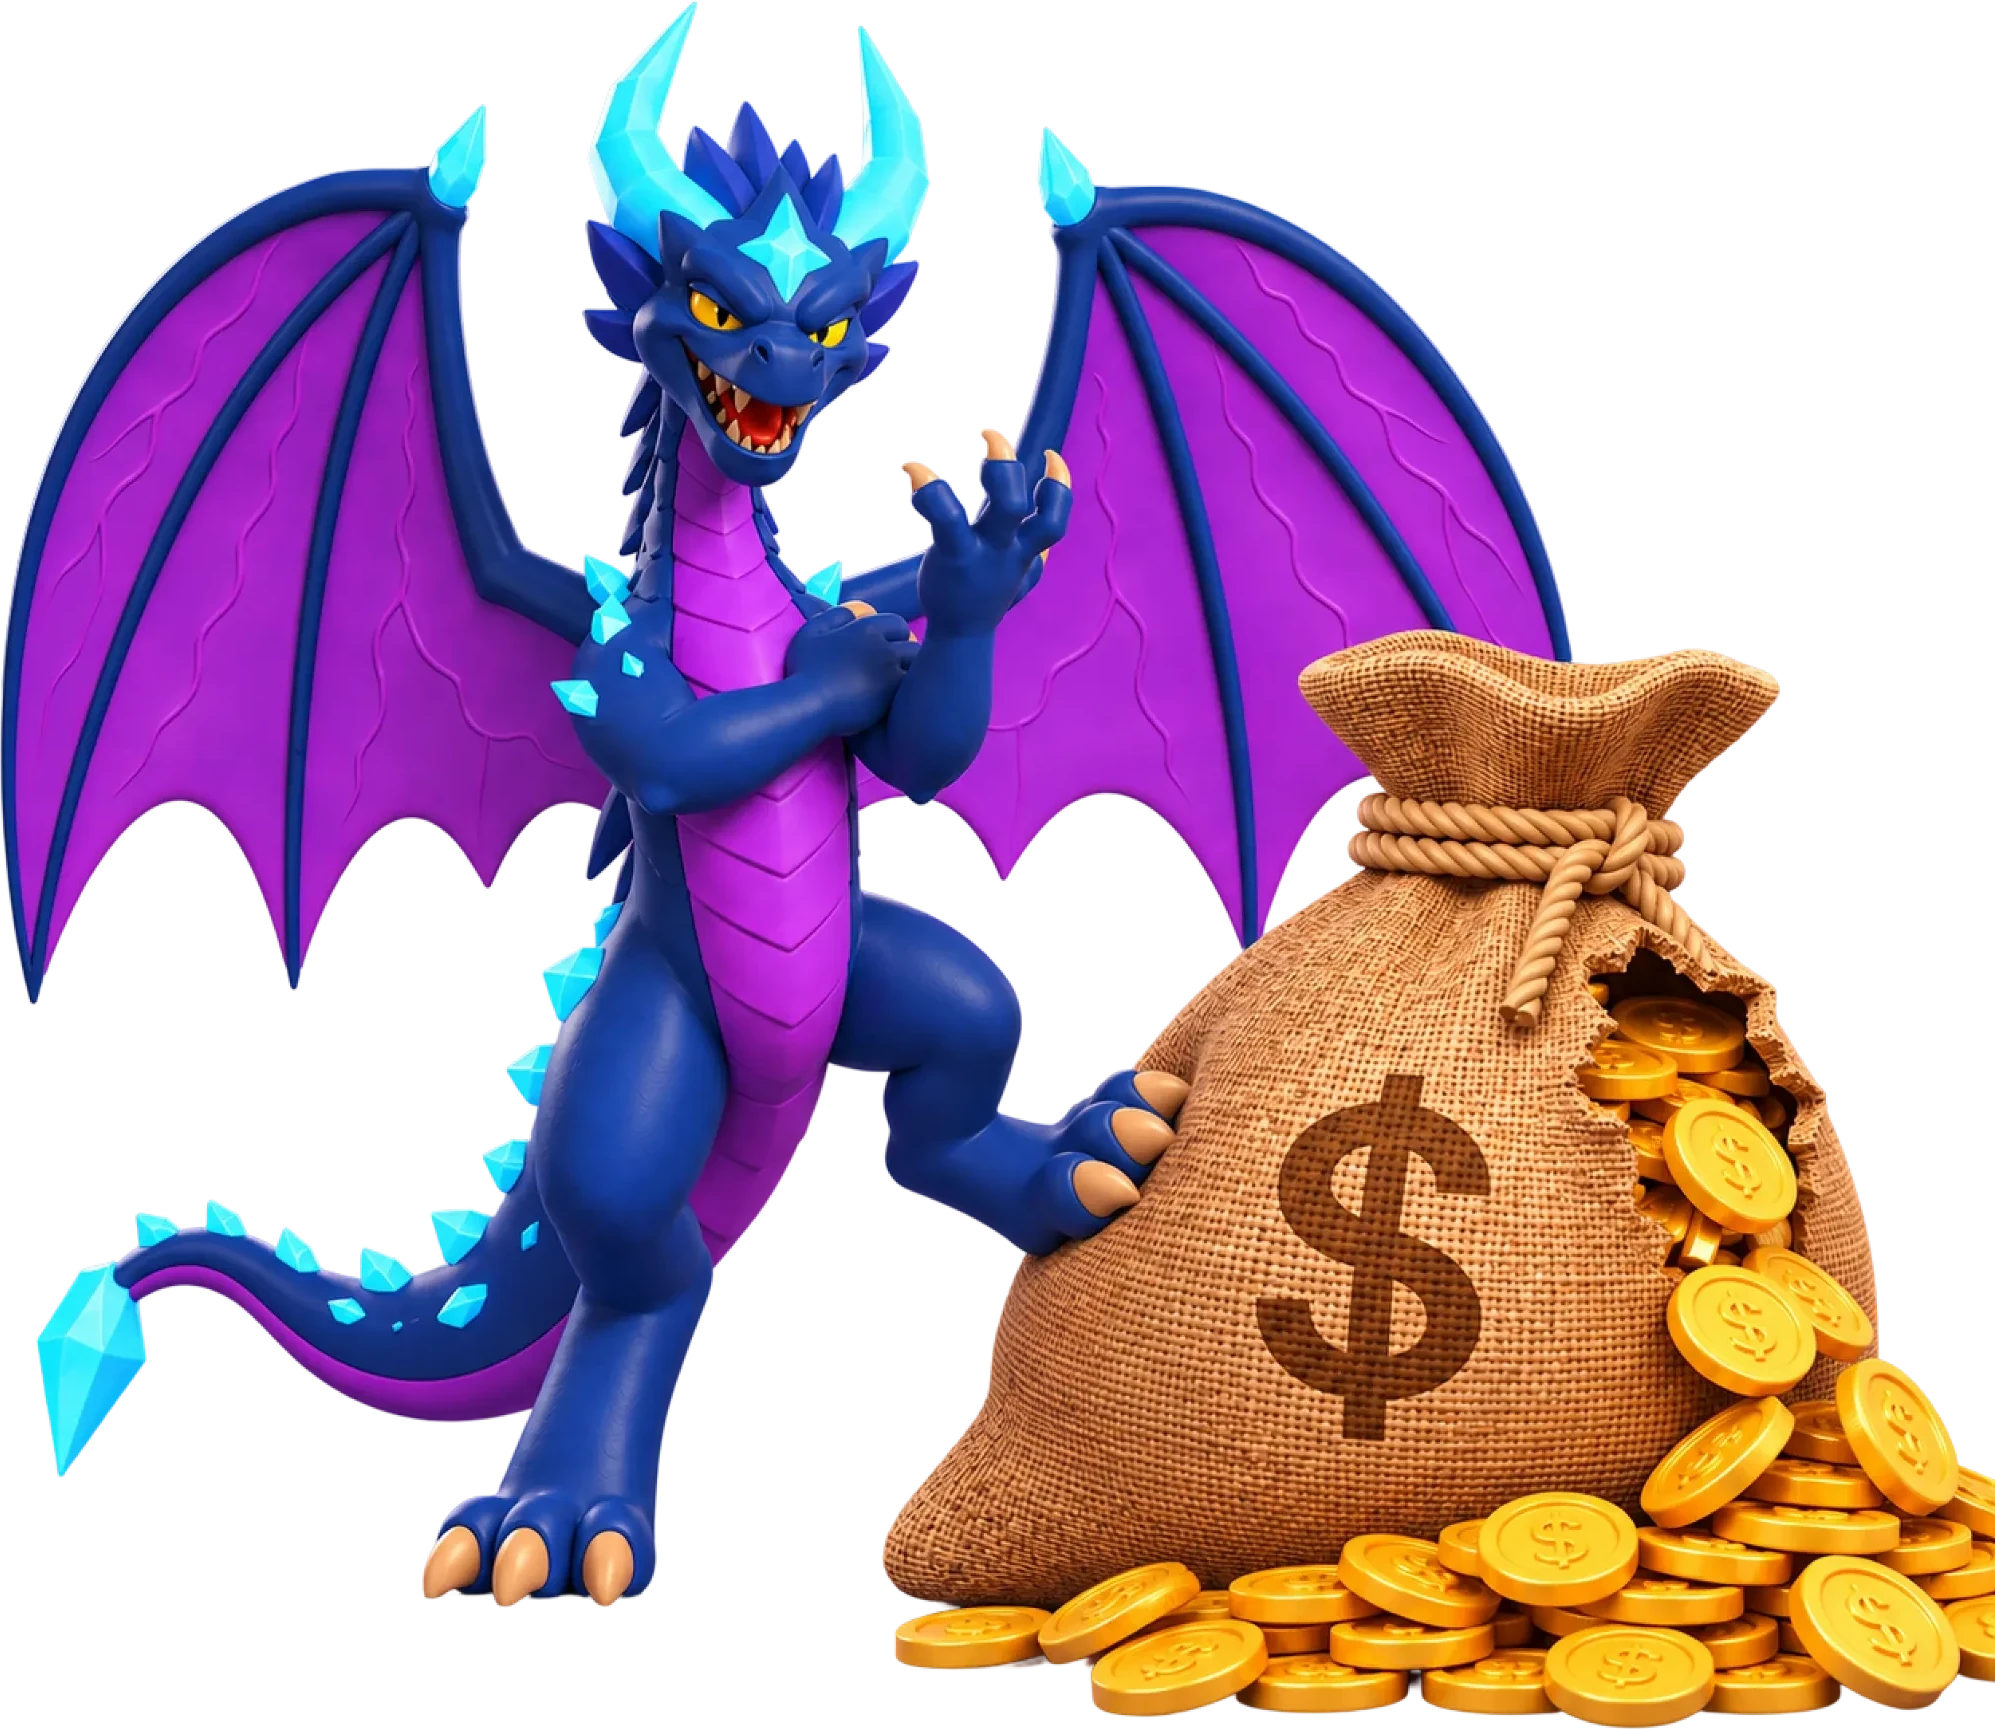
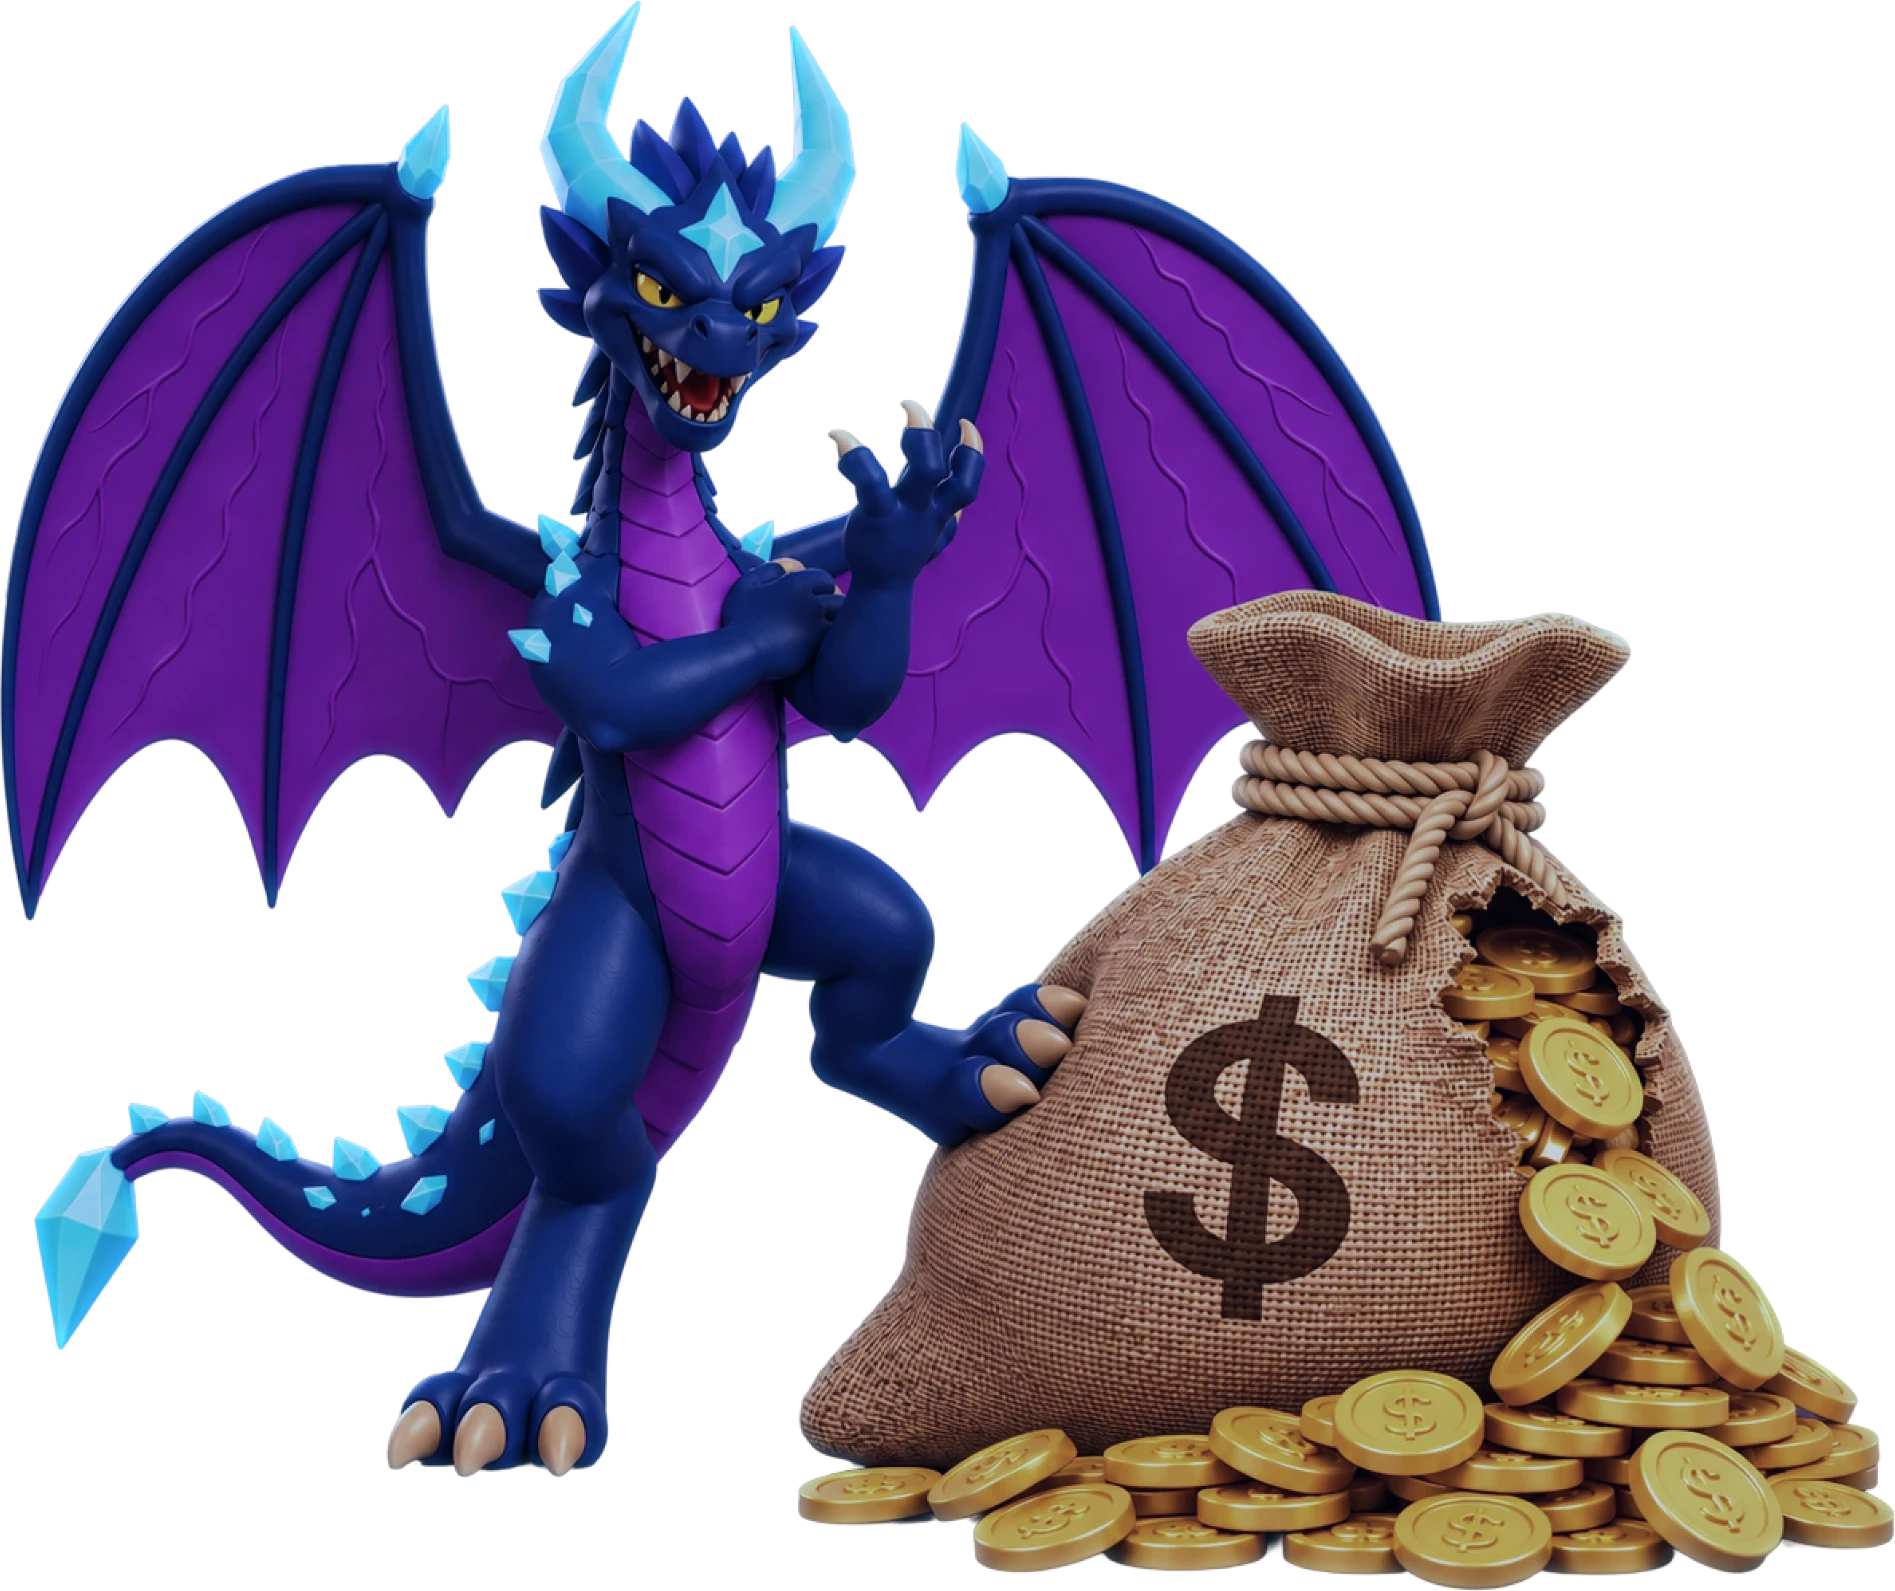
Siderax con el dinero: imagen nueva con las monedas completas y ajustada a la luz nocturna

diff --git a/build/integrar-escena.py b/build/integrar-escena.py
@@ -1,0 +1,33 @@
+"""Integra una imagen (personaje con fondo transparente) en la escena nocturna del planeta de Siderax:
+menos saturación, tonos medios más oscuros, tinte frío (luz azul del planeta) y un poco de luz cian de
+los cristales en los bordes. Así se hizo assets/siderax-dinero.webp.
+
+Uso: python build/integrar-escena.py <imagen con fondo transparente> <salida.webp> [saturación, 0.62]
+Ejemplo: python build/integrar-escena.py siderax.png assets/siderax-dinero.webp
+"""
+import numpy as np, os, sys
+from PIL import Image, ImageFilter
+SRC, OUT = sys.argv[1], sys.argv[2]
+im =Image.open(SRC).convert('RGBA')
+a = np.asarray(im)[:, :, 3]
+ys, xs = np.nonzero(a > 20)
+im = im.crop((xs.min(), ys.min(), xs.max() + 1, ys.max() + 1))
+arr = np.asarray(im).astype(np.float32) / 255
+rgb, al = arr[:, :, :3], arr[:, :, 3:]
+lum = (rgb * [0.2126, 0.7152, 0.0722]).sum(2, keepdims=True)
+sat = float(sys.argv[3]) if len(sys.argv) > 3 else 0.62
+rgb = lum + (rgb - lum) * sat                       # menos saturación
+rgb = np.power(np.clip(rgb, 0, 1), 1.18) * 0.86     # tonos medios más oscuros
+rgb = rgb * np.array([0.90, 0.95, 1.10])            # tinte frío
+lum2 = (rgb * [0.2126, 0.7152, 0.0722]).sum(2, keepdims=True)
+rgb = rgb + (1 - lum2) * np.array([0.00, 0.012, 0.045])   # sombras con ambiente azul
+# luz cian en el borde: alfa erosionado vs. original = contorno, difuminado hacia dentro
+A = Image.fromarray((al[:, :, 0] * 255).astype(np.uint8))
+inner = np.asarray(A.filter(ImageFilter.MinFilter(9)).filter(ImageFilter.GaussianBlur(6)), np.float32) / 255
+rim = np.clip(al[:, :, 0] - inner, 0, 1)[:, :, None]
+rgb = rgb + rim * np.array([0.10, 0.32, 0.42]) * 0.55
+out = np.concatenate([np.clip(rgb, 0, 1), al], 2)
+Image.fromarray((out * 255).astype(np.uint8)).save(OUT, 'WEBP', quality=90, method=6)
+px = (out[:, :, :3][out[:, :, 3] > 0.8] * 255)
+l = px.mean(1)
+print('guardado', OUT, im.size, 'luz', round(l.mean(), 1), 'sat', round((px.max(1) - px.min(1)).mean(), 1), os.path.getsize(OUT) // 1024, 'KB')

diff --git a/README.md b/README.md
@@ -27,7 +27,7 @@ assets/moto.webp            Foto de la moto (fondo transparente)
 assets/siderax-moto.webp    Siderax a la izquierda de la moto, con la mano sobre el asiento de atrás (debajo de la ruleta)
 assets/galilei-symbol.png   Símbolo de Galilei, arriba a la derecha de la pantalla
 assets/gali-dinero.webp      Gali con la bolsa de dinero (anuncio de Auteco y Reviews), imagen del equipo recortada
-assets/siderax-dinero.webp   Siderax con la bolsa de dinero (debajo de la ruleta en Auteco y Reviews), imagen del equipo recortada
+assets/siderax-dinero.webp   Siderax con la bolsa de dinero (debajo de la ruleta en Auteco y Reviews), imagen del equipo ajustada a la luz nocturna con build/integrar-escena.py
 assets/fondo-siderax.webp   Fondo: planeta de origen de Siderax, oscuro y suave
 assets/fondo-ganador.webp   Fondo del anuncio del ganador: bóveda de metal oscuro abierta a un valle con arcoíris y un pedestal
 assets/cuarto.webp          Transición: cuarto con la puerta abierta al planeta de Siderax, sin pedestal
